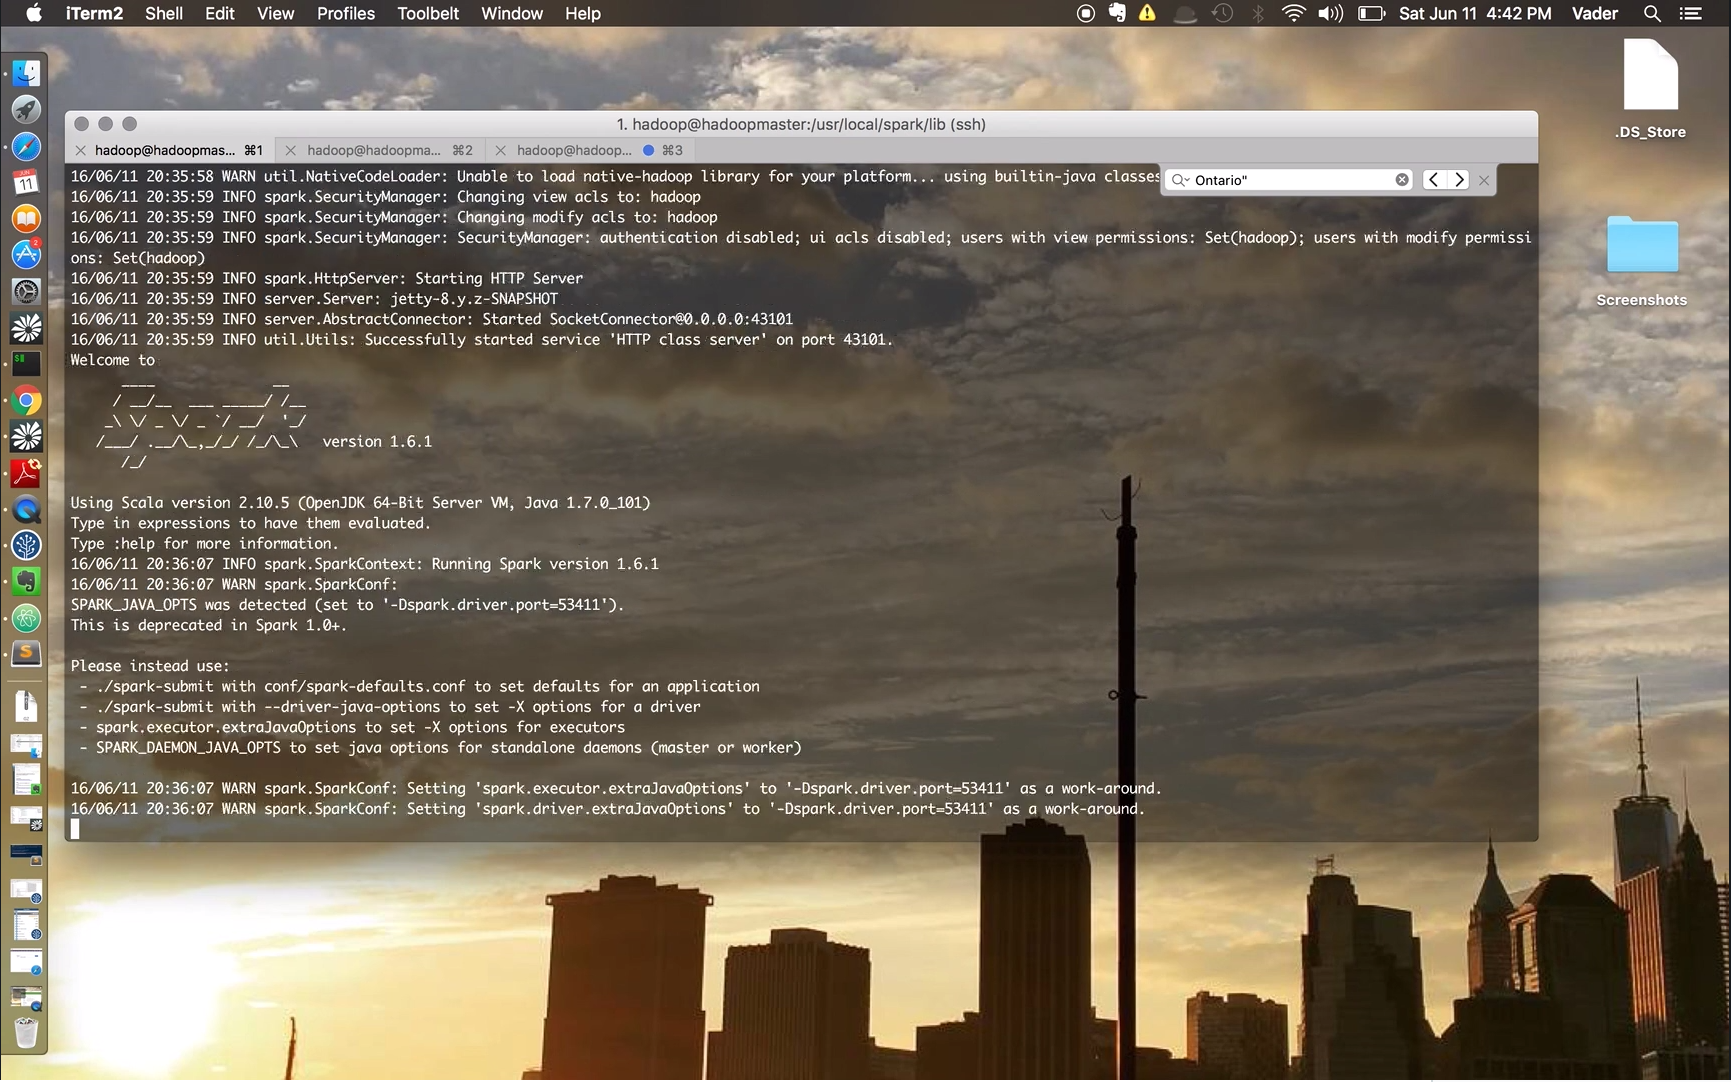
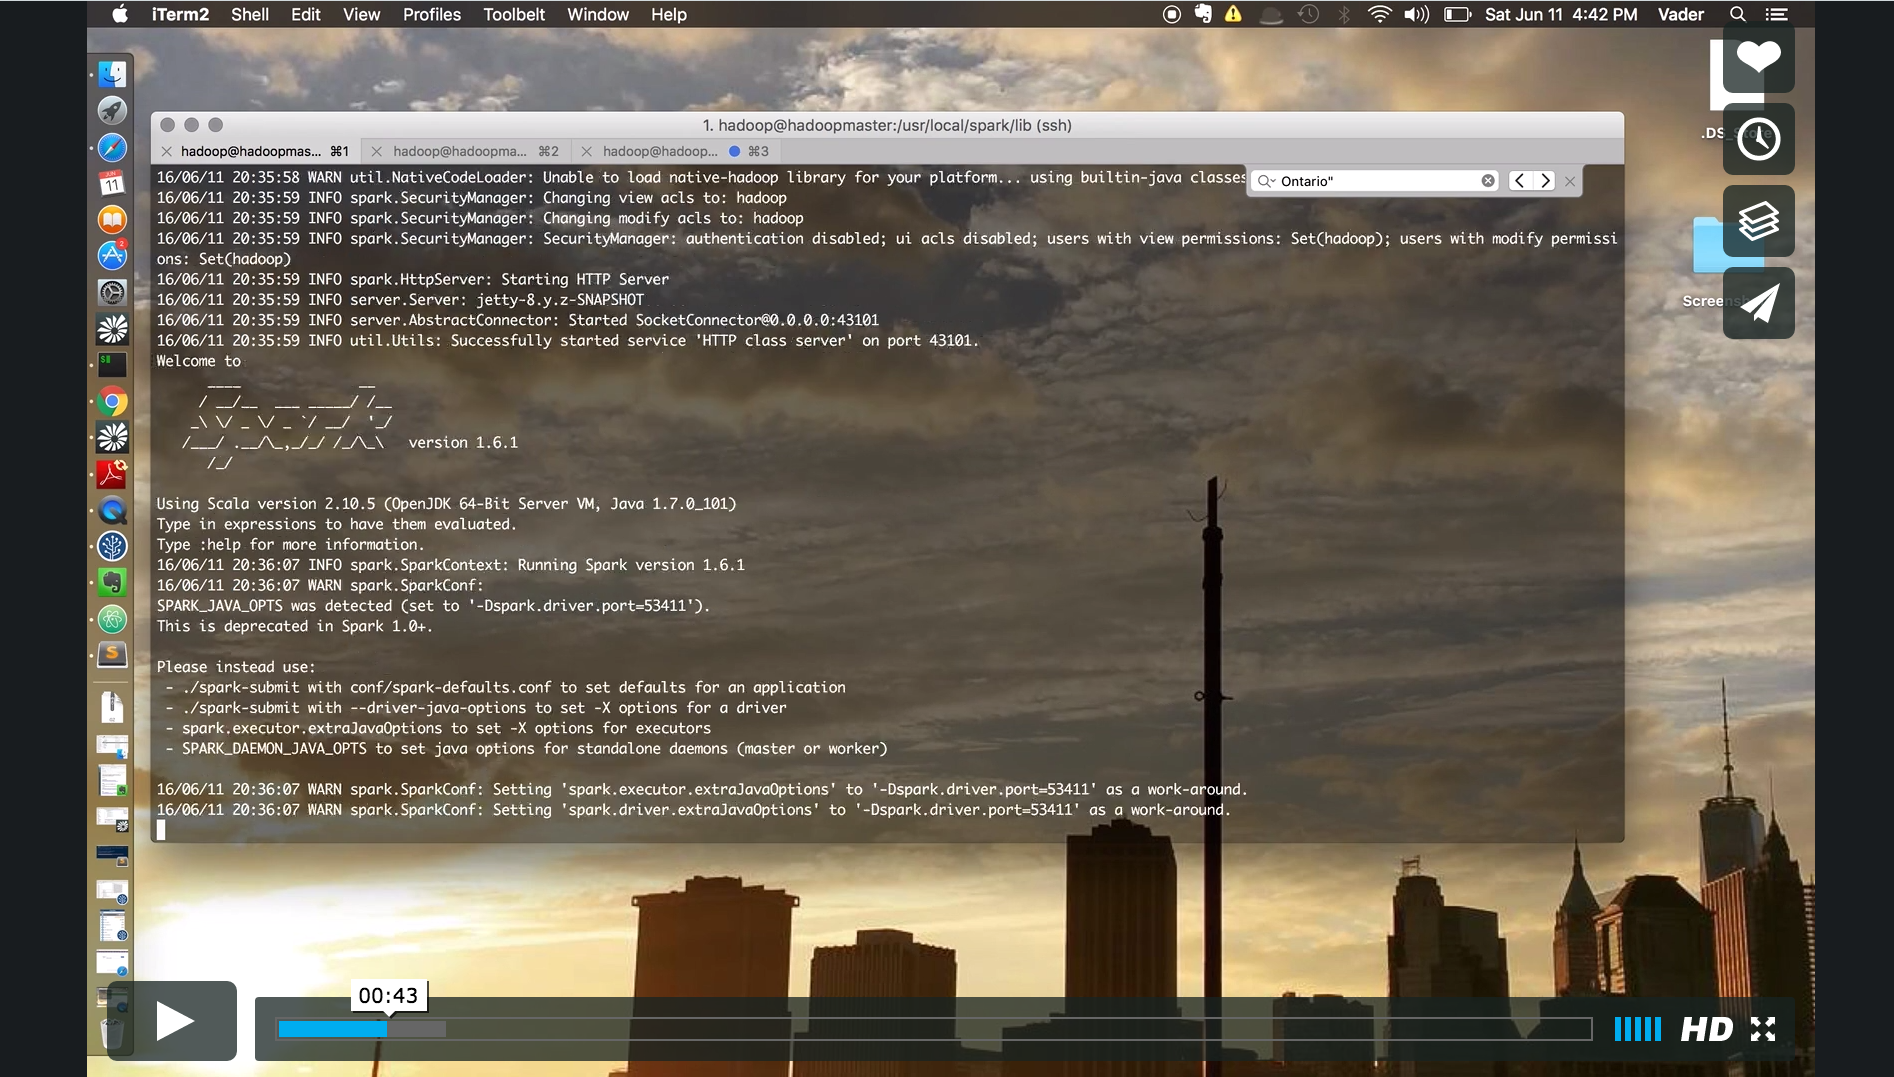
Adding better image for video demonstration

diff --git a/README.md b/README.md
@@ -45,6 +45,8 @@ vagrant up
 
 ## Video Demo:
 
+Click on image below to see video demonstration:
+
 [![ScreenShot](https://raw.githubusercontent.com/BZCareer/hadoop-ansible/master/imgs/VideoDemoScreenshot.png)](https://vimeo.com/170316038)
 
 
